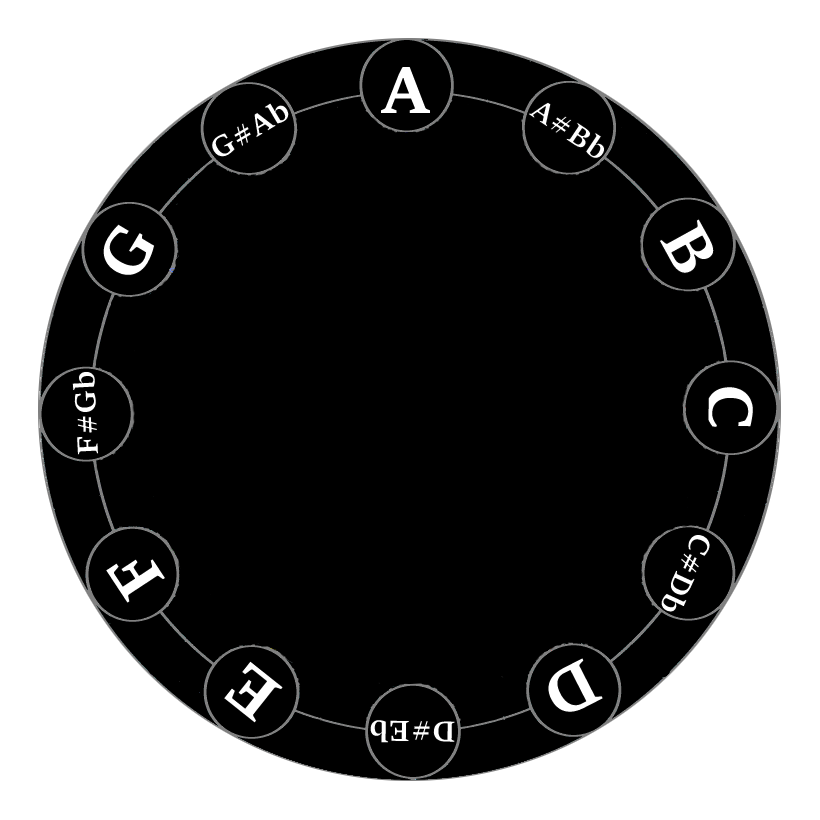
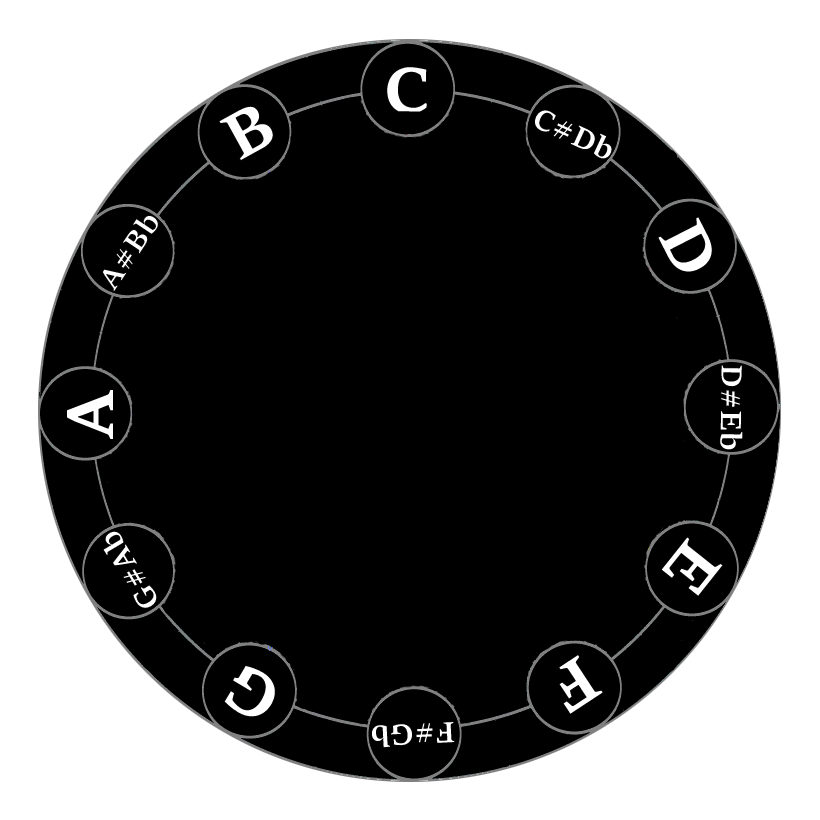
About done but for one bug:
We're running out of notes in our scale quite quickly and having
undefinedes be in there

diff --git a/src/App.tsx b/src/App.tsx
@@ -3,54 +3,96 @@ import { useState } from 'react'
 import './App.css'
 
 const NOTES = [
-  'A4', 'Bb4', 'B4', 'C5', 'Db5', 'D5', 'Eb5', 'E5', 'F5', 'F#5', 'G5', 'Ab5',
-  'A5', 'Bb5', 'B5', 'C6', 'Db6', 'D6', 'Eb6', 'E6', 'F6', 'F#6', 'G6', 'Ab6',
-  'A6'
+  'C4', 'Db4', 'D4', 'Eb4', 'E4', 'F4', 'F#4', 'G4', 'Ab4', 'A4', 'Bb4', 'B4',
+  'C5', 'Db5', 'D5', 'Eb5', 'E5', 'F5', 'F#5', 'G5', 'Ab5', 'A5', 'Bb5', 'B5',
+  'C6'
 ]
 
-const synth = new Tone.Synth().toDestination()
-
 // TODO
-// * Legend always visible on top
-// * Play row
 // * modal background
-// * Rotation degrees modulo 360
+// * Rotating notes down leaves undefinedes in scale
 
 function App() {
 
-  const [noteRotation, setNoteRotation] = useState(0)
-  const [lineRotation, setLineRotation] = useState(0)
-  const [isLegendVisible, setLegendVisible] = useState(false)
+  const [noteIndex, setNoteIndex] = useState(0)
+  const [modeIndex, setModeIndex] = useState(0)
   const [isInstructionsVisible, setInstructionsVisible] = useState(false)
 
-  const noteRotationStyle = { transform: `rotate(${noteRotation}deg)` }
-  const lineRotationStyle = { transform: `rotate(${lineRotation}deg)` }
+  const incrementNoteRotation = () => setNoteIndex(noteIndex + 1)
+  const decrementNoteRotation = () => setNoteIndex(noteIndex - 1)
+  const incrementModeRotation = () => setModeIndex(modeIndex + 1)
+  const decrementModeRotation = () => setModeIndex(modeIndex - 1)
 
-  const incrementNoteRotation = () => setNoteRotation(noteRotation + 30)
-  const decrementNoteRotation = () => setNoteRotation(noteRotation - 30)
-  const incrementLineRotation = () => setLineRotation(lineRotation + 30)
-  const decrementLineRotation = () => setLineRotation(lineRotation - 30)
+  // Basically whole step/half step
+  const scaleSteps = [2, 2, 1, 2, 2, 2, 1, 2] // Starting on Ionian
+  const chromaticScale = [0, 1, 2, 3, 4, 5, 6, 7, 8, 9, 10, 11, 12]
 
-  // const play = () => {
-  //   const notes =
-  //   notes.forEach((note, index) => {
-  //     synth.triggerAttackRelease(note, "8n", Tone.now() + (index / 3))
-  //   })
-  // }
+  // Translate to the correct scaleSteps for the mode we're in
+  for (let i = 0; i < modeIndex; i++) { // TODO Maybe change modeIndex to modeRotationIndex
+    scaleSteps.push(scaleSteps.shift() as number)
+  }
 
-  // let legendClassName = 'modal'
-  // if (!isLegendVisible) legendClassName += ' hidden'
+  // Generate the scale degrees we're concerned with by applying scaleSteps to chromaticScale
+  const scaleDegrees: number[] = []
+  let currentPosition = 0
+  for (let step of scaleSteps) {
+    scaleDegrees.push(chromaticScale[currentPosition])
+    currentPosition += step
+  }
+
+  // See, if we just did mode index like note index, the modes would rotate by their 30 degrees
+  // and look fine, but 5 times, the root note _would not be on a note_, and that's semantically
+  // undefined. So by having this secondary index, we can skip indices that are undesirable.
+  const ionianScaleDegrees = [0, 2, 4, 5, 7, 9, 11] // B/c this is our starting place, all rotations are relative to the ionian mode
+  const modeRotationIndex = ionianScaleDegrees[modeIndex % ionianScaleDegrees.length]
+
+  const noteRotationStyle = { transform: `rotate(${(0 - noteIndex) * 30}deg)` }
+  const modeRotationStyle = { transform: `rotate(${(0 - modeRotationIndex) * 30}deg)` }
+
+  // const rootNote = NOTES[noteIndex % 12]
+  const notes: string[] = []
+  for (const i of scaleDegrees) {
+    notes.push(NOTES[i + noteIndex])
+  }
+  console.log('scale: ', notes)
+
+  const playNotes = async (toPlay: string[], shouldPlayTogether = false) => {
+    await Tone.start()
+
+    const synth = new Tone.PolySynth(Tone.Synth).toDestination()
+
+    toPlay.forEach((note, index) => {
+      synth.triggerAttackRelease(note, "8n", Tone.now() + (index / 3))
+    })
+
+    if (shouldPlayTogether) {
+      synth.triggerAttackRelease(toPlay, "4n", Tone.now() + ((toPlay.length + 0.5) / 3))
+    }
+  }
+
+  const playScale = () => {
+    playNotes(notes)
+  }
+
+  const playTriad = () => {
+    const toPlay = [notes[0], notes[2], notes[4]]
+    playNotes(toPlay, true)
+  }
+
+  const playSeventh = () => {
+    const toPlay = [notes[0], notes[2], notes[4], notes[6]]
+    playNotes(toPlay, true)
+  }
+
   let instructionsClassName = 'modal'
   if (!isInstructionsVisible) instructionsClassName += ' hidden'
 
 
   return (
     <div className="App">
-      { /* <div id='legend' onClick={() => setLegendVisible(false)} className={legendClassName}><img src='legend.png' /></div> */ }
       <div id='legend-container'><img src='legend.png' width={'80%'} /></div>
       <div id='instructions' onClick={() => setInstructionsVisible(false)} className={instructionsClassName}><img src='instructions.png' /></div>
       <div id='help-buttons'>
-        {/* <h2 onClick={() => setLegendVisible(!isLegendVisible)}>Show Legend</h2> */ }
         <h2 onClick={() => setInstructionsVisible(!isInstructionsVisible)}>?</h2>
       </div>
       <div id='wheel-buttons-container'>
@@ -61,23 +103,23 @@ function App() {
             <button onClick={decrementNoteRotation}>⇩</button>
           </div>
         </div>
-        <div id='line-wheel-buttons' className='rotate-buttons'>
+        <div id='mode-wheel-buttons' className='rotate-buttons'>
           <h2>Select Mode</h2>
           <div>
-            <button onClick={incrementLineRotation}>⇧</button>
-            <button onClick={decrementLineRotation}>⇩</button>
+            <button onClick={incrementModeRotation}>⇧</button>
+            <button onClick={decrementModeRotation}>⇩</button>
           </div>
         </div>
       </div>
       <div id='play-buttons-container'>
-        <button onClick={() => {}}>🎧 Scale</button>
-        <button onClick={() => {}}>🎧 Triad</button>
-        <button onClick={() => {}}>🎧 Seventh</button>
+        <button onClick={playScale}>🎧 Scale</button>
+        <button onClick={playTriad}>🎧 Triad</button>
+        <button onClick={playSeventh}>🎧 Seventh</button>
       </div>
       <div id='wheel-container'>
         <img id='quality-wheel' className='wheel' src='quality-wheel.png' />
         <img style={noteRotationStyle} id='note-wheel' className='wheel rotatable' src='note-wheel.png' />
-        <img style={lineRotationStyle} id='line-wheel' className='wheel rotatable' src='line-wheel.png' />
+        <img style={modeRotationStyle} id='mode-wheel' className='wheel rotatable' src='mode-wheel.png' />
       </div>
     </div>
   )

diff --git a/src/App.css b/src/App.css
@@ -67,11 +67,11 @@ body {
 }
 
 #note-wheel {
-  margin-top: -820px;
+  margin-top: -821px;
 }
 
-#line-wheel {
-  margin-top: -820px;
+#mode-wheel {
+  margin-top: -821px;
 }
 
 .rotate-buttons {
@@ -117,6 +117,9 @@ button:active {
 
 .modal {
   z-index: 20;
+  border: 1px solid white;
+  border-radius: 8px;
+  padding: 10px;
   /* position: absolute; */
   /* left: 30%; */
   /* top: 20%; */
